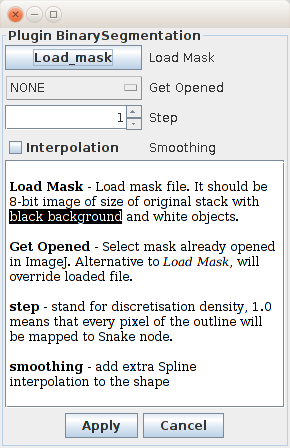
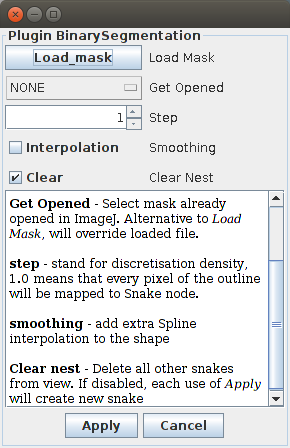
Updated after #242

Changed region(s): [[0.0, 0.375, 0.9931, 0.9062], [0.0, 0.0, 1.0, 0.0625], [0.9621, 0.375, 0.9931, 0.4375]]

diff --git a/Docs/QuimP_Guide.tex b/Docs/QuimP_Guide.tex
@@ -378,7 +378,7 @@ Remember to recalculate the scale of the image when resizing, and to perform int
 Another common approach to improving image quality is to remove background noise using a `blank' image, one taken without any
 cells in the field.  This is particularly useful for removing shadows of dirt on the optical equipment, and correcting uneven backgrounds.
 
-\subsection{Binary segmentation} \label{sec:Binary_seg}
+\subsection{Binary mask segmentation} \label{sec:Binary_seg}
 The QuimP supports creation of Snake outlines directly from binary masks. As the active contour method is not used in this case, one can use another segmentation algorithms (e.g. \hyperref[sec:RWSeg]{Random Walker method}) to deal with problems that typically occur for active contour such as e.g. bad segmentation of cavities.
 
 To use binary segmentation, the black-white mask (8-bit image in ImageJ) should be prepared first. It has to be size of segmented image that is already loaded to BOA plugin. The number of slices in mask file should be less or equal to the number of slices present in segmented image. \textbf{The background pixels must have value 0 whereas objects can be defined by any other values within the range 1-255}.
@@ -392,7 +392,7 @@ The binary segmentation plugin can be launched from BOA menu $(\textit{Segmentat
 	\label{BinarySegWindow}
 \end{figure}
 
-The mask can be either loaded from separate file (ImageJ formats are supported) or selected among already opened images in ImageJ. Results of segmentation are displayed in real-time on BOA window immediately after clicking \textit{Apply}. \textit{Cancel} closes the plugin window leaving last results of segmentation in BOA. 
+The mask can be either loaded from separate file (ImageJ formats are supported) or selected among already opened images in ImageJ. Results of segmentation are displayed in real-time on BOA window immediately after clicking \textit{Apply}. \textit{Cancel} closes the plugin window leaving last results of segmentation in BOA. If \textit{Clear} is selected each use of \textit{Apply} will clear current outlines in BOA. If it is unselected, outline will be added to BOA. Note that each click on \textit{Apply} will create new outline even if non of plugin parameters is modified. 
 Resulting outline can be smoothed by e.g. \texttt{MeanSnakefilter} available in the plugin area (see figure \ref{boaWindow}). Filter can be applied for selected frames only or populated for the whole sequence by $(\textit{Plugin}\rightarrow \textit{Populate plugins})$
  
 \section{Cell Tracking - ECMM Plugin}
